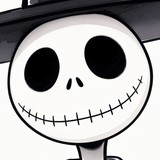
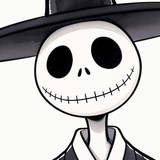
feat(blog): 프로필 사진에 모자 챙을 더 넣고 사이트 이름 DevTaco를 DevJack으로 변경

diff --git a/src/pages/Blog/BlogPost.js b/src/pages/Blog/BlogPost.js
@@ -635,7 +635,7 @@ const BlogPost = () => {
         {/* 데이터 로딩 중에는 아래에서 post 기반 <Helmet>이 렌더되지 않으므로, public/index.html의
             정적 <title> 폴백을 제거한 이후 실사용자가 겪을 수 있는 "빈 탭 제목" 방지용 기본값 */}
         <Helmet>
-          <title>게시글 불러오는 중... | DevTaco Blog</title>
+          <title>게시글 불러오는 중... | DevJack Blog</title>
         </Helmet>
         {/* Breadcrumbs Skeleton */}
         <Box sx={{ mb: 3 }}>
@@ -680,7 +680,7 @@ const BlogPost = () => {
     return (
       <Box sx={{ p: 4, textAlign: 'center' }}>
         <Helmet>
-          <title>게시글을 찾을 수 없습니다 | DevTaco Blog</title>
+          <title>게시글을 찾을 수 없습니다 | DevJack Blog</title>
         </Helmet>
         <Typography variant="h4" gutterBottom>
           게시글을 찾을 수 없습니다
@@ -751,7 +751,7 @@ const BlogPost = () => {
         <Helmet>
           {/* react-helmet-async v3(React 19 경로)는 <title>의 자식이 여러 개(표현식+문자열)면
               hoist하지 못하고 빈 <title />을 렌더링함 → 반드시 단일 표현식(템플릿 리터럴)으로 전달 */}
-          <title>{`${post.title} | DevTaco Blog`}</title>
+          <title>{`${post.title} | DevJack Blog`}</title>
           <meta name="description" content={excerptText} />
           <meta property="og:title" content={post.title} />
           <meta property="og:description" content={excerptText} />

diff --git a/src/pages/About/About.js b/src/pages/About/About.js
@@ -23,8 +23,8 @@ const About = () => {
       minHeight: '100vh'
     }}>
       <Helmet>
-        <title>소개 | DevTaco Blog</title>
-        <meta name="description" content="Java · Kotlin 백엔드 개발자 박종혁(DevTaco)의 경력, 기술 스택, 프로젝트 소개" />
+        <title>소개 | DevJack Blog</title>
+        <meta name="description" content="Java · Kotlin 백엔드 개발자 박종혁(DevJack)의 경력, 기술 스택, 프로젝트 소개" />
       </Helmet>
       {/* 헤더 섹션 */}
       <motion.div
@@ -99,7 +99,7 @@ const About = () => {
               fontWeight: 'bold',
               color: '#000000'
             }}>
-              박종혁 (DevTaco)
+              박종혁 (DevJack)
             </Typography>
             <Typography variant="h6" gutterBottom sx={{ 
               color: '#000000', 
@@ -114,7 +114,7 @@ const About = () => {
               mb: 3,
               color: '#000000'
             }}>
-              안녕하세요, DevTaco입니다 👋<br />
+              안녕하세요, DevJack입니다 👋<br />
               패션업계에서 디자이너로 일하다가 개발자로 전향한 지 벌써 6년이 되었습니다.<br />
               지금은 Java와 Kotlin을 주로 사용하며 Spring Boot 기반의 다양한 서비스를 만들고 있습니다.<br /><br />
               새로운 기술을 배우는 걸 즐기고, 읽기 좋은 코드를 작성하는 데 집중합니다.<br />

diff --git a/src/pages/Blog/BlogList.js b/src/pages/Blog/BlogList.js
@@ -423,7 +423,7 @@ const BlogList = () => {
     return (
       <Box>
         <Helmet>
-          <title>게시글 목록 | DevTaco Blog</title>
+          <title>게시글 목록 | DevJack Blog</title>
           <meta name="description" content="Java · Kotlin 백엔드 개발 경험과 학습 기록을 공유하는 기술 블로그의 게시글 목록" />
         </Helmet>
         <Typography variant="h4" sx={{ mb: 4 }}>
@@ -458,7 +458,7 @@ const BlogList = () => {
   return (
     <>
       <Helmet>
-        <title>게시글 목록 | DevTaco Blog</title>
+        <title>게시글 목록 | DevJack Blog</title>
         <meta name="description" content="Java · Kotlin 백엔드 개발 경험과 학습 기록을 공유하는 기술 블로그의 게시글 목록" />
       </Helmet>
 

diff --git a/public/index.html b/public/index.html
@@ -17,7 +17,7 @@
     <meta name="viewport" content="width=device-width, initial-scale=1" />
     <meta name="theme-color" content="#000000" />
     <meta name="keywords" content="Java, Kotlin, Spring Boot, MSA, 개발, 백엔드, coroutine" />
-    <meta name="author" content="DevTaco" />
+    <meta name="author" content="DevJack" />
 
     <!--
       SEO 메타 중 페이지별로 값이 달라지는 항목(title, description, og:title,

diff --git a/src/components/layout/Layout.js b/src/components/layout/Layout.js
@@ -146,7 +146,7 @@ const Layout = ({ children }) => {
         marginTop: 'auto',
         backgroundColor: '#ffffff'
       }}>
-        <p>© 2025 DevTaco Blog. All rights reserved.</p>
+        <p>© 2025 DevJack Blog. All rights reserved.</p>
       </footer>
 
       {/* Hidden Visitor Counter - 화면에는 보이지 않지만 방문자 카운팅 로직 실행 */}

diff --git a/src/components/layout/Layout.test.js b/src/components/layout/Layout.test.js
@@ -38,3 +38,10 @@ describe('Layout 본문 컨테이너', () => {
     expect(screen.getByTestId('page-container')).toHaveTextContent('본문');
   });
 });
+
+describe('Layout 푸터', () => {
+  it('블로그 이름을 DevJack 으로 보여 준다', () => {
+    renderAt('/about');
+    expect(screen.getByText(/DevJack Blog/)).toBeInTheDocument();
+  });
+});

diff --git a/src/components/ui/Profile.js b/src/components/ui/Profile.js
@@ -35,7 +35,7 @@ function Profile() {
               fontSize: { xs: '1.25rem', md: '1.5rem' }
             }}
           >
-            DevTaco
+            DevJack
           </Typography>
           <Typography 
             variant="body2" 
